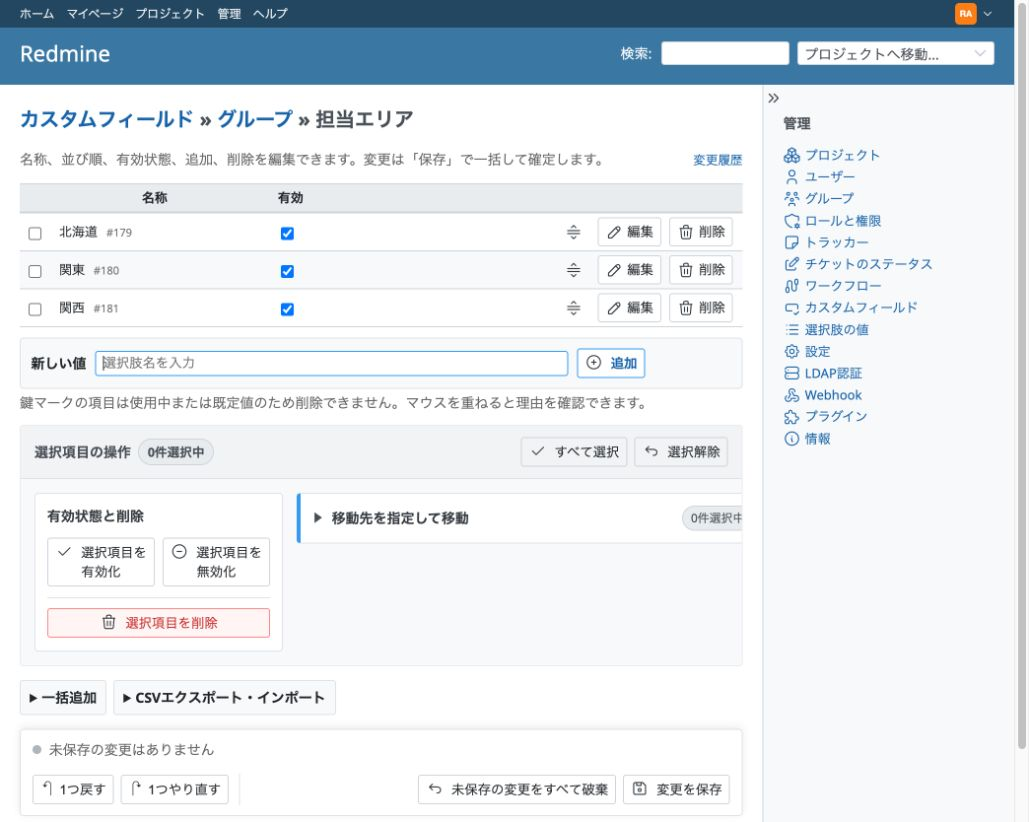
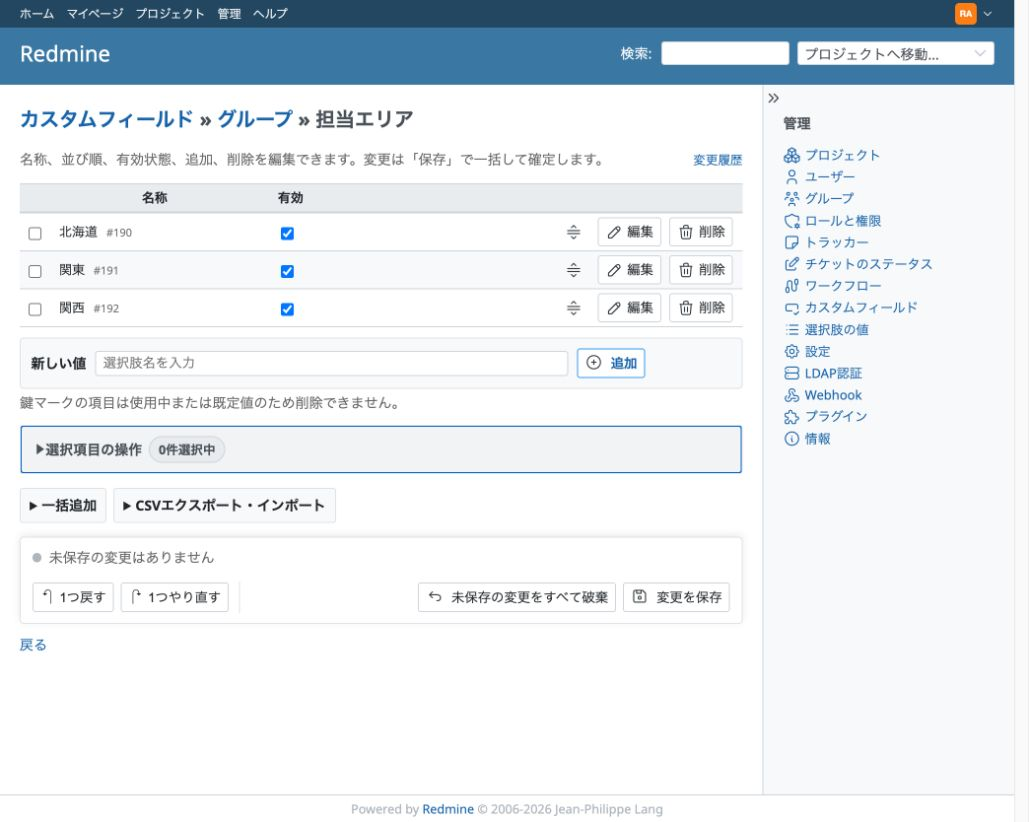
Collapse secondary enumeration actions

diff --git a/test/browser/manager.spec.js b/test/browser/manager.spec.js
@@ -39,7 +39,8 @@ test.describe.serial('custom field manager browser behavior', function() {
   test('groups controls by purpose and keeps commit actions in a predictable position', async function({page}) {
     await page.goto('/custom_fields/' + fieldId + '/enumerations', {waitUntil: 'networkidle'});
 
-    const selectionBar = page.locator('.rcfm-selection-bar');
+    const selectionTools = page.locator('.rcfm-enumeration-selection-tools');
+    const selectionBar = selectionTools.locator('> summary.rcfm-selection-bar');
     const list = page.locator('.rcfm-enumerations');
     const singleAdd = page.locator('.rcfm-single-add');
     const statePanel = page.locator('.rcfm-operation-panel--state');
@@ -49,6 +50,11 @@ test.describe.serial('custom field manager browser behavior', function() {
     await expect(list).toBeVisible();
     await expect(singleAdd).toBeVisible();
     await expect(selectionBar).toBeVisible();
+    await expect(selectionTools).not.toHaveAttribute('open', '');
+    await expect(statePanel).toBeHidden();
+    await expect(movePanel).toBeHidden();
+    await selectionBar.click();
+    await expect(selectionTools).toHaveAttribute('open', '');
     await expect(statePanel).toBeVisible();
     await expect(movePanel).toBeVisible();
     await expect(movePanel).not.toHaveAttribute('open', '');
@@ -91,11 +97,16 @@ test.describe.serial('custom field manager browser behavior', function() {
     await commitBar.locator('.rcfm-reset').click();
 
     await page.setViewportSize({width: 1044, height: 834});
+    const mediumToolsBox = await selectionTools.boundingBox();
     const mediumStateBox = await statePanel.boundingBox();
+    const mediumMoveBox = await movePanel.boundingBox();
     const mediumDeleteBox = await statePanel.locator('.rcfm-delete-selected').boundingBox();
     expect(mediumDeleteBox.x).toBeGreaterThanOrEqual(mediumStateBox.x);
     expect(mediumDeleteBox.x + mediumDeleteBox.width).toBeLessThanOrEqual(
       mediumStateBox.x + mediumStateBox.width
+    );
+    expect(mediumMoveBox.x + mediumMoveBox.width).toBeLessThanOrEqual(
+      mediumToolsBox.x + mediumToolsBox.width
     );
     await expect(commitBar).toHaveCSS('flex-direction', 'column');
     await expect(commitBar.locator('.rcfm-save')).toHaveCSS('white-space', 'nowrap');
@@ -122,6 +133,7 @@ test.describe.serial('custom field manager browser behavior', function() {
     await page.goto('/custom_fields/' + fieldId + '/enumerations', {waitUntil: 'networkidle'});
     const rows = page.locator('.rcfm-enumerations tbody tr');
     await expect(rows).toHaveCount(3);
+    await page.locator('.rcfm-enumeration-selection-tools > summary').click();
     await page.locator('.rcfm-bulk-move summary').click();
 
     const firstActive = rows.nth(0).locator('.rcfm-active');
@@ -195,6 +207,7 @@ test.describe.serial('custom field manager browser behavior', function() {
     await page.goto('/custom_fields/' + fieldId + '/enumerations', {waitUntil: 'networkidle'});
     const rows = page.locator('.rcfm-enumerations tbody tr');
     await expect(rows).toHaveCount(6);
+    await page.locator('.rcfm-enumeration-selection-tools > summary').click();
     await page.locator('.rcfm-bulk-move summary').click();
 
     for (let index = 0; index < 2; index += 1) {
@@ -243,6 +256,7 @@ test.describe.serial('custom field manager browser behavior', function() {
   test('clears obsolete errors after the user corrects or undoes an action', async function({page}) {
     await page.goto('/custom_fields/' + fieldId + '/enumerations', {waitUntil: 'networkidle'});
     const rows = page.locator('.rcfm-enumerations tbody tr');
+    await page.locator('.rcfm-enumeration-selection-tools > summary').click();
     await page.locator('.rcfm-bulk-move summary').click();
     await page.locator('.rcfm-deactivate-selected').click();
     await expect(page.locator('.rcfm-error')).toContainText('Select one or more items.');

diff --git a/assets/stylesheets/custom_field_manager.css b/assets/stylesheets/custom_field_manager.css
@@ -65,7 +65,7 @@
   align-items: start;
   display: grid;
   gap: 1em;
-  grid-template-columns: minmax(18em, 0.8fr) minmax(34em, 1.4fr);
+  grid-template-columns: minmax(18em, 0.8fr) minmax(0, 1.4fr);
   padding: 1em;
 }
 
@@ -479,6 +479,46 @@
 
 .rcfm-enumeration-selection-tools {
   margin-top: 0.85em;
+}
+
+.rcfm-enumeration-selection-tools > .rcfm-selection-bar {
+  border-bottom: 0;
+  cursor: pointer;
+  justify-content: flex-start;
+  list-style: none;
+}
+
+.rcfm-enumeration-selection-tools:not([open]) > :not(summary) {
+  display: none;
+}
+
+.rcfm-enumeration-selection-tools > .rcfm-selection-bar::-webkit-details-marker {
+  display: none;
+}
+
+.rcfm-enumeration-selection-tools > .rcfm-selection-bar::before {
+  color: var(--oc-gray-7, #555);
+  content: "▶";
+  font-size: 0.8em;
+}
+
+.rcfm-enumeration-selection-tools[open] > .rcfm-selection-bar {
+  border-bottom: 1px solid var(--oc-gray-3, #ddd);
+}
+
+.rcfm-enumeration-selection-tools[open] > .rcfm-selection-bar::before {
+  content: "▼";
+}
+
+.rcfm-enumeration-selection-controls {
+  display: flex;
+  justify-content: flex-end;
+  padding: 1em 1em 0;
+}
+
+.rcfm-operation-panel--move > summary > span:first-child {
+  min-width: 0;
+  overflow-wrap: anywhere;
 }
 
 .rcfm-enumeration-utilities {

diff --git a/test/integration/custom_fields_view_test.rb b/test/integration/custom_fields_view_test.rb
@@ -52,7 +52,8 @@ class RedmineCustomFieldManagerCustomFieldsViewTest < Redmine::IntegrationTest
     assert_select 'input.rcfm-base-snapshot'
     assert_select 'button.rcfm-undo', :text => 'Undo'
     assert_select 'button.rcfm-redo', :text => 'Redo'
-    assert_select '.rcfm-selection-bar button.rcfm-select-all'
+    assert_select 'details.rcfm-enumeration-selection-tools:not([open])'
+    assert_select '.rcfm-enumeration-selection-tools button.rcfm-select-all'
     assert_select '.rcfm-operation-panel--state button.rcfm-activate-selected'
     assert_select '.rcfm-operation-panel--state button.rcfm-delete-selected.rcfm-button-danger'
     assert_select '.rcfm-operation-panel--state h3', :text => 'Status and deletion'
@@ -71,7 +72,7 @@ class RedmineCustomFieldManagerCustomFieldsViewTest < Redmine::IntegrationTest
     assert_select 'a.rcfm-csv-template[href*="template=1"]'
     assert_select '.rcfm-csv-import .info', :text => /Save or discard/
     assert_select '.rcfm-protection-indicator[title*="default value"]'
-    assert_select '.rcfm-protected-help'
+    assert_select '.rcfm-protected-help', :text => 'Locked values are in use or are defaults and cannot be deleted.'
     assert_select 'input.rcfm-add-one-input[placeholder="Enter a value name"]'
     assert_select 'button.rcfm-add-one', :text => 'Add'
     assert_select '.rcfm-enumeration-utilities details:not([open])', :count => 2

diff --git a/README.ja.md b/README.ja.md
@@ -30,7 +30,7 @@ Redmine Custom Field Manager は、カスタムフィールドの並び順と大
 
 ### Key/value list 管理
 
-最初に選択肢一覧を表示し、その直下の**新しい値**で通常の1件追加ができます。選択項目の操作は一覧の後へ、一括追加とCSVはたまに使う小さな折りたたみツールとしてさらに下へ配置しています。名称編集、有効化・無効化、削除、ドラッグ＆ドロップ、複数選択も利用できます。鍵マークにマウスを重ねると削除できない理由を確認できます。保存前には未保存の変更件数を表示し、すべてを原子的に保存します。
+最初に選択肢一覧を表示し、その直下の**新しい値**で通常の1件追加ができます。選択項目の操作は一覧の後へ置き、初期状態では折りたたみます。一括追加とCSVは、たまに使う小さな折りたたみツールとしてさらに下へ配置しています。名称編集、有効化・無効化、削除、ドラッグ＆ドロップ、複数選択も利用できます。鍵マークの項目には削除できない理由が表示されます。保存前には未保存の変更件数を表示し、すべてを原子的に保存します。
 
 ![Key/value list の保存前編集](docs/images/enumeration-manager.png)
 
@@ -85,7 +85,7 @@ Redmine Custom Field Manager は、カスタムフィールドの並び順と大
 
 ### Key/value list を編集する
 
-標準のカスタムフィールド画面から、形式が **Key/value list** のフィールドの選択肢を開きます。最初に一覧が表示され、直下の**新しい値**から通常どおり1件ずつ追加できます。名称、有効状態、順序、追加、削除の変更は、**保存**を押すまで反映されません。一括追加とCSVは、選択項目の操作より下にある小さな折りたたみツールから利用できます。
+標準のカスタムフィールド画面から、形式が **Key/value list** のフィールドの選択肢を開きます。最初に一覧が表示され、直下の**新しい値**から通常どおり1件ずつ追加できます。名称、有効状態、順序、追加、削除の変更は、**保存**を押すまで反映されません。選択項目の操作も初期状態では折りたたまれています。一括追加とCSVは、その下にある小さな折りたたみツールから利用できます。
 
 すでに使用されている選択肢は削除できません。代わりに無効化してください。使用状況は保存直前にも再確認し、状態が変わっていれば操作全体を中断して、部分的な保存を残しません。
 

diff --git a/README.md b/README.md
@@ -30,7 +30,7 @@ Drag individual rows, or select one or more rows and open the collapsed **Move t
 
 ### Key/value list manager
 
-The editor shows the value list first. Directly below it, a normal **New value** field adds one value at a time to the staged changes. Selected-item operations follow the primary list, while bulk addition and CSV are kept as compact, collapsed utilities for occasional use. Inline renaming, activation, deactivation, deletion, drag and drop, and multi-selection remain available. Locked values show why they cannot be deleted. The summary reports every pending change before the atomic save.
+The editor shows the value list first. Directly below it, a normal **New value** field adds one value at a time to the staged changes. Selected-item operations follow the primary list and are collapsed by default. Bulk addition and CSV are kept as compact, collapsed utilities for occasional use. Inline renaming, activation, deactivation, deletion, drag and drop, and multi-selection remain available. Locked values show why they cannot be deleted. The summary reports every pending change before the atomic save.
 
 ![Staged Key/value list editing](docs/images/enumeration-manager.png)
 

diff --git a/docs/specification.md b/docs/specification.md
@@ -68,7 +68,7 @@ Redmine標準の管理画面を**置き換える**。別個の高度管理画面
 ### 5.1 一覧・編集
 
 - 全選択肢を表示し、従来どおりD&Dで任意の位置へ移動できる。
-- 画面では選択肢一覧を最初に表示し、その直下に単件追加、選択項目の操作、一括追加・CSVの順で配置する。一括追加とCSVは利用頻度の低い補助ツールとして、初期状態では小さく折りたたむ。
+- 画面では選択肢一覧を最初に表示し、その直下に単件追加、選択項目の操作、一括追加・CSVの順で配置する。選択項目の操作はカスタムフィールド一覧と同様に初期状態で折りたたむ。一括追加とCSVも利用頻度の低い補助ツールとして、初期状態では小さく折りたたむ。
 - 通常時は**軽量なテキスト行**として表示し、名称のクリックまたは編集ボタンでその行だけ入力欄へ切り替える。
 - 編集を確定しても保存ボタンを押すまではサーバーへ反映しない。
 - 名称変更、追加、並び替え、有効／無効の切り替え、削除を扱う。
